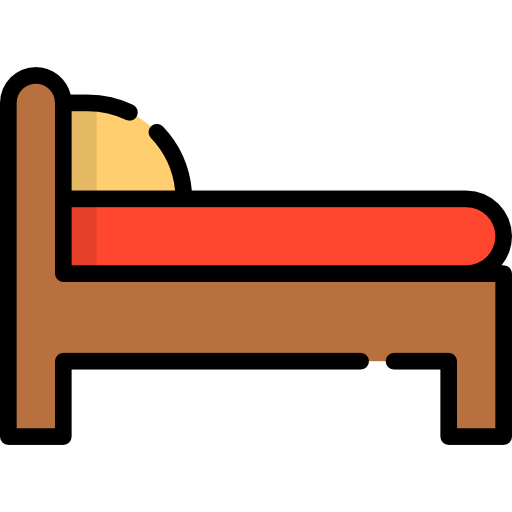
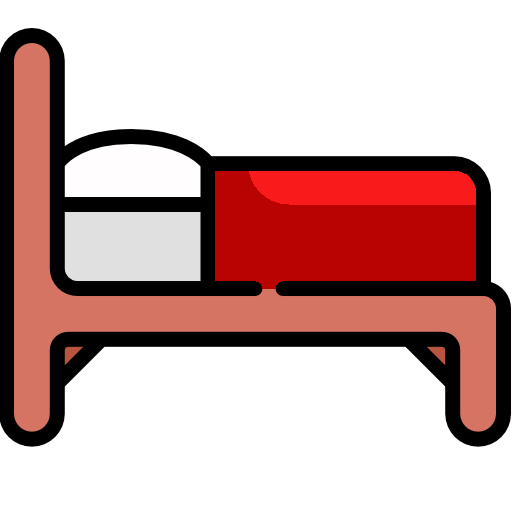
Cambios en ventanaCama y añadido imagenes

diff --git a/src/gui/VentanaCamas.java b/src/gui/VentanaCamas.java
@@ -368,37 +368,31 @@ public class VentanaCamas extends JFrame {
         JPanel panel = new JPanel();
         panel.setLayout(new BoxLayout(panel, BoxLayout.Y_AXIS));
         
-        // Establecer el borde según el tipo de cama
-        if (cama.getTipoCama().equals("UCI")) {
-            panel.setBorder(BorderFactory.createCompoundBorder(
-                BorderFactory.createLineBorder(new Color(139, 0, 0), 3), // Borde rojo oscuro más grueso para UCI
-                BorderFactory.createEmptyBorder(5, 5, 5, 5)
-            ));
-        } else {
-            panel.setBorder(BorderFactory.createCompoundBorder(
-                BorderFactory.createLineBorder(Color.BLACK),
-                BorderFactory.createEmptyBorder(5, 5, 5, 5)
-            ));
-        }
         
-        // Crear el JLabel para la imagen
         JLabel imageLabel = new JLabel();
         imageLabel.setAlignmentX(Component.CENTER_ALIGNMENT);
         
-        // Cargar la imagen según el estado de la cama
         try {
             ImageIcon icon;
-            if (cama.isOcupada()) {
-                icon = new ImageIcon(getClass().getResource("/db/CamaRoja.png"));
+            if (cama.getTipoCama().equals("UCI")) {
+                if (cama.isOcupada()) {
+                    icon = new ImageIcon(getClass().getResource("/db/CamaRojaUCI.png"));
+                } else {
+                    icon = new ImageIcon(getClass().getResource("/db/CamaVerdeUci.png"));
+                }
             } else {
-                icon = new ImageIcon(getClass().getResource("/db/CamaVerde.png"));
+                if (cama.isOcupada()) {
+                    icon = new ImageIcon(getClass().getResource("/db/CamaRoja.png"));
+                } else {
+                    icon = new ImageIcon(getClass().getResource("/db/CamaVerde.png"));
+                }
             }
-            
+
             // Redimensionar la imagen
             Image img = icon.getImage();
             Image newImg = img.getScaledInstance(100, 100, Image.SCALE_SMOOTH);
             icon = new ImageIcon(newImg);
-            
+
             imageLabel.setIcon(icon);
         } catch (Exception e) {
             System.err.println("Error al cargar la imagen: " + e.getMessage());
@@ -690,17 +684,10 @@ public class VentanaCamas extends JFrame {
                     .findFirst()
                     .orElse(null);
                     
-                if (cama != null && cama.getTipoCama().equals("UCI")) {
-                    camaPanel.setBorder(BorderFactory.createCompoundBorder(
-                        BorderFactory.createLineBorder(new Color(139, 0, 0), 3),
-                        BorderFactory.createEmptyBorder(5, 5, 5, 5)
-                    ));
-                } else {
-                    camaPanel.setBorder(BorderFactory.createCompoundBorder(
+                camaPanel.setBorder(BorderFactory.createCompoundBorder(
                         BorderFactory.createLineBorder(Color.BLACK),
                         BorderFactory.createEmptyBorder(5, 5, 5, 5)
-                    ));
-                }
+                ));
             }
         }
         // Resaltar el panel seleccionado manteniendo el grosor del borde si es UCI
